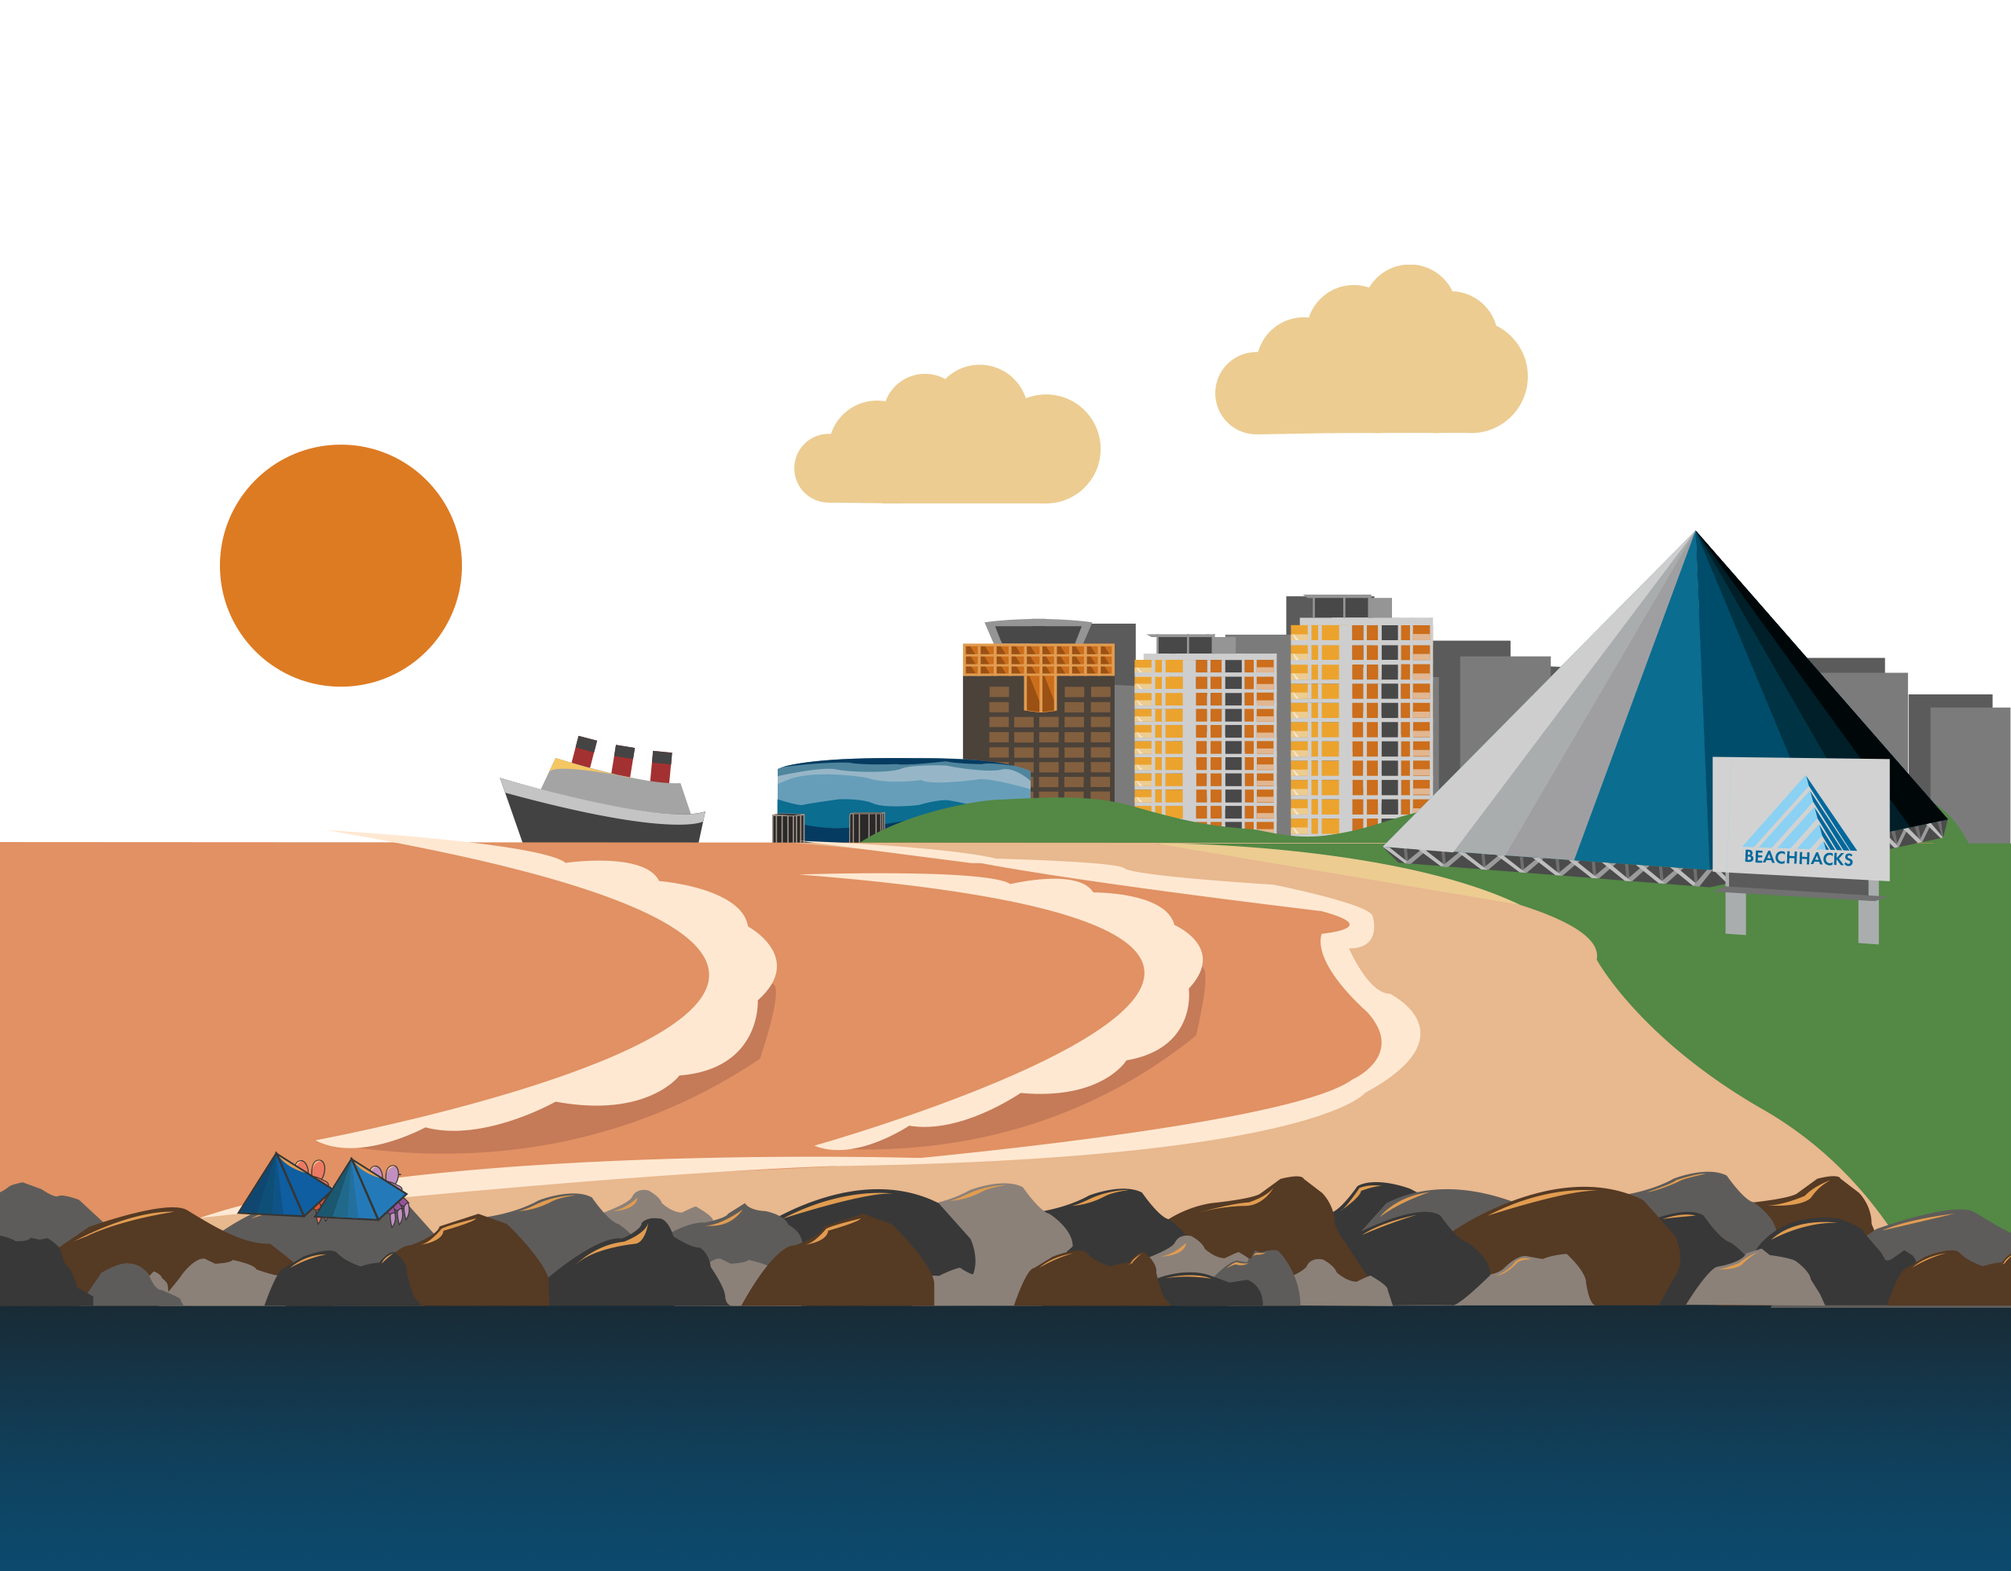
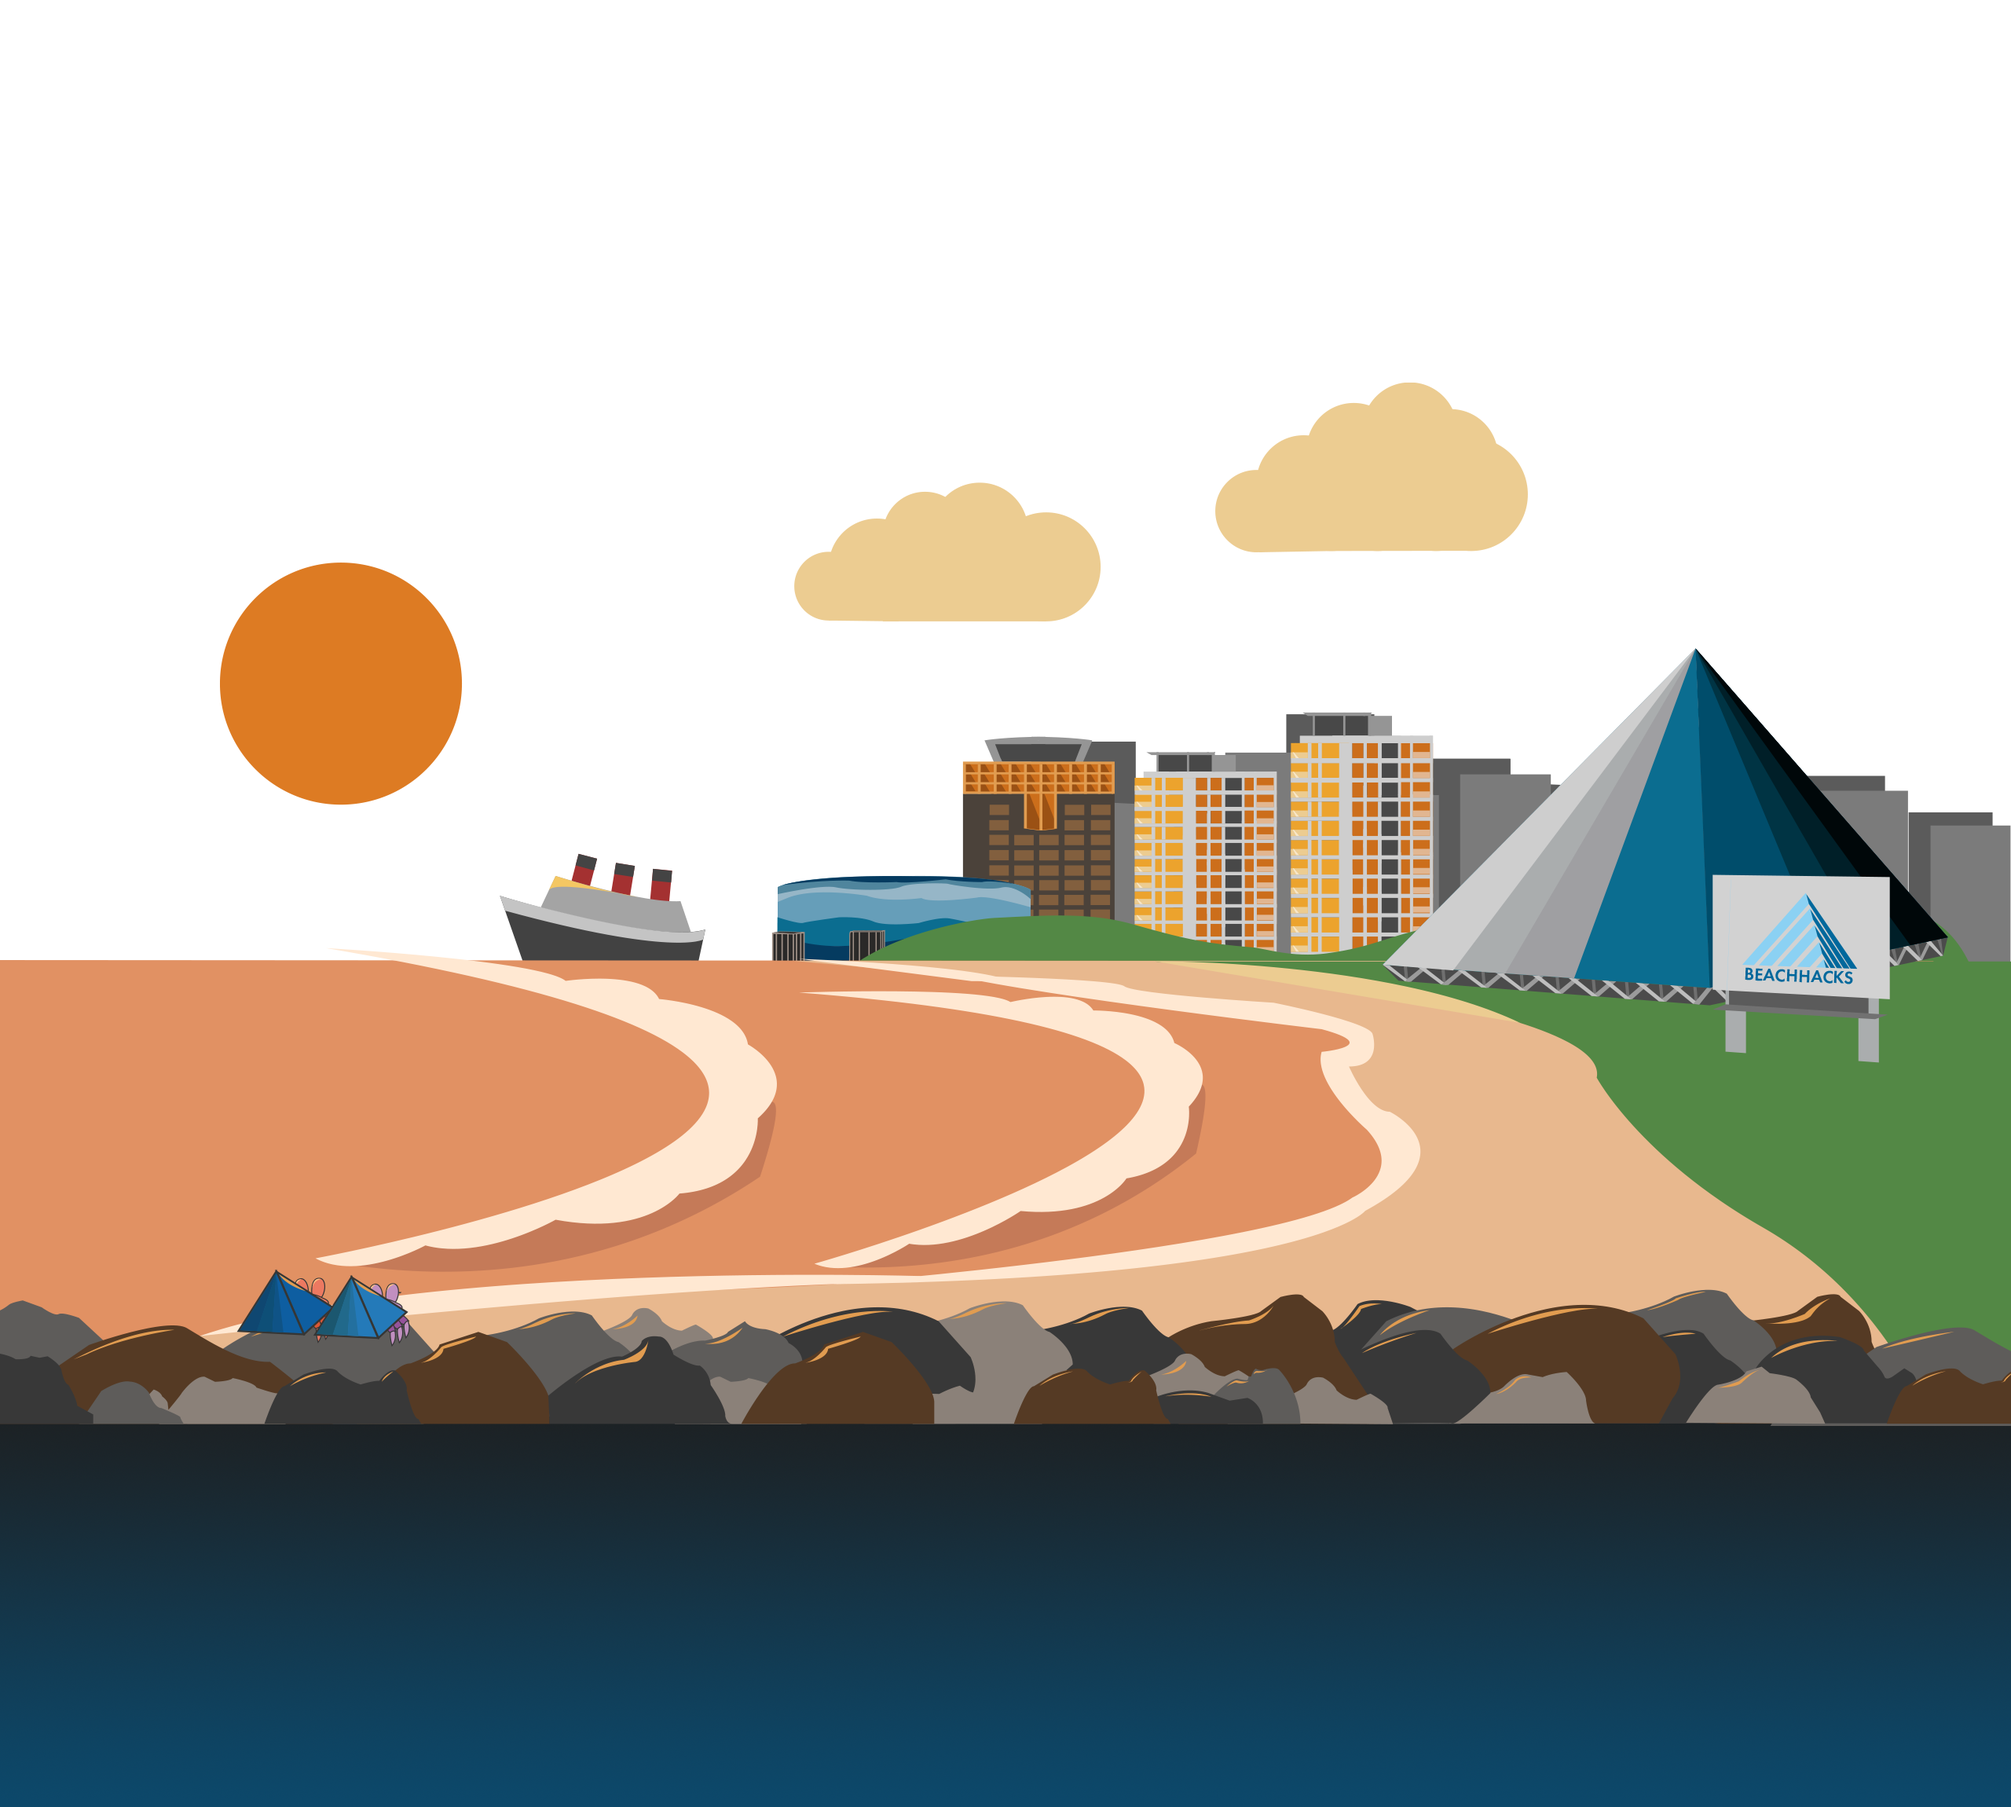
Add Scaling Background CSS

diff --git a/src/App.css b/src/App.css
@@ -157,11 +157,53 @@ a:hover{
       background-color:#D1802F;
       background-image:url(./Images/background-images/long-beach-background.png);
       background-size:100% auto;
-      height:150vh;
+      
       background-position:bottom;
       background-repeat:no-repeat;
     }
 
+    @media screen and (min-width: 320px)
+    {
+      #header{
+        height:90vh;
+      }
+    }
+
+    @media screen and (min-width: 500px){
+      #header{
+        height:105vh;
+      }
+    }
+
+    @media screen and (min-width:768px){
+      #header{
+        height:120vh;
+      }
+    }
+
+    @media screen and (min-width:900px){
+      #header{
+        height:140vh;
+      }
+    }
+
+    @media screen and (min-width:1024px){
+      #header{
+        height:160vh;
+      }
+    }
+
+    @media screen and (min-width:1440px){
+      #header{
+        height:190vh;
+      }
+    }
+
+    @media screen and (min-width:2560px){
+      #header{
+        height:200vh;
+      }
+    }
     .faq-header{
       font-size:4em;
       font-family:'futura-pt-bold';
@@ -297,6 +339,8 @@ a:hover{
       font-family: futura-pt;
       text-align: left;
     }
+
+    
   
     #info .info-header{
       font-family: futura-bold-pt;
